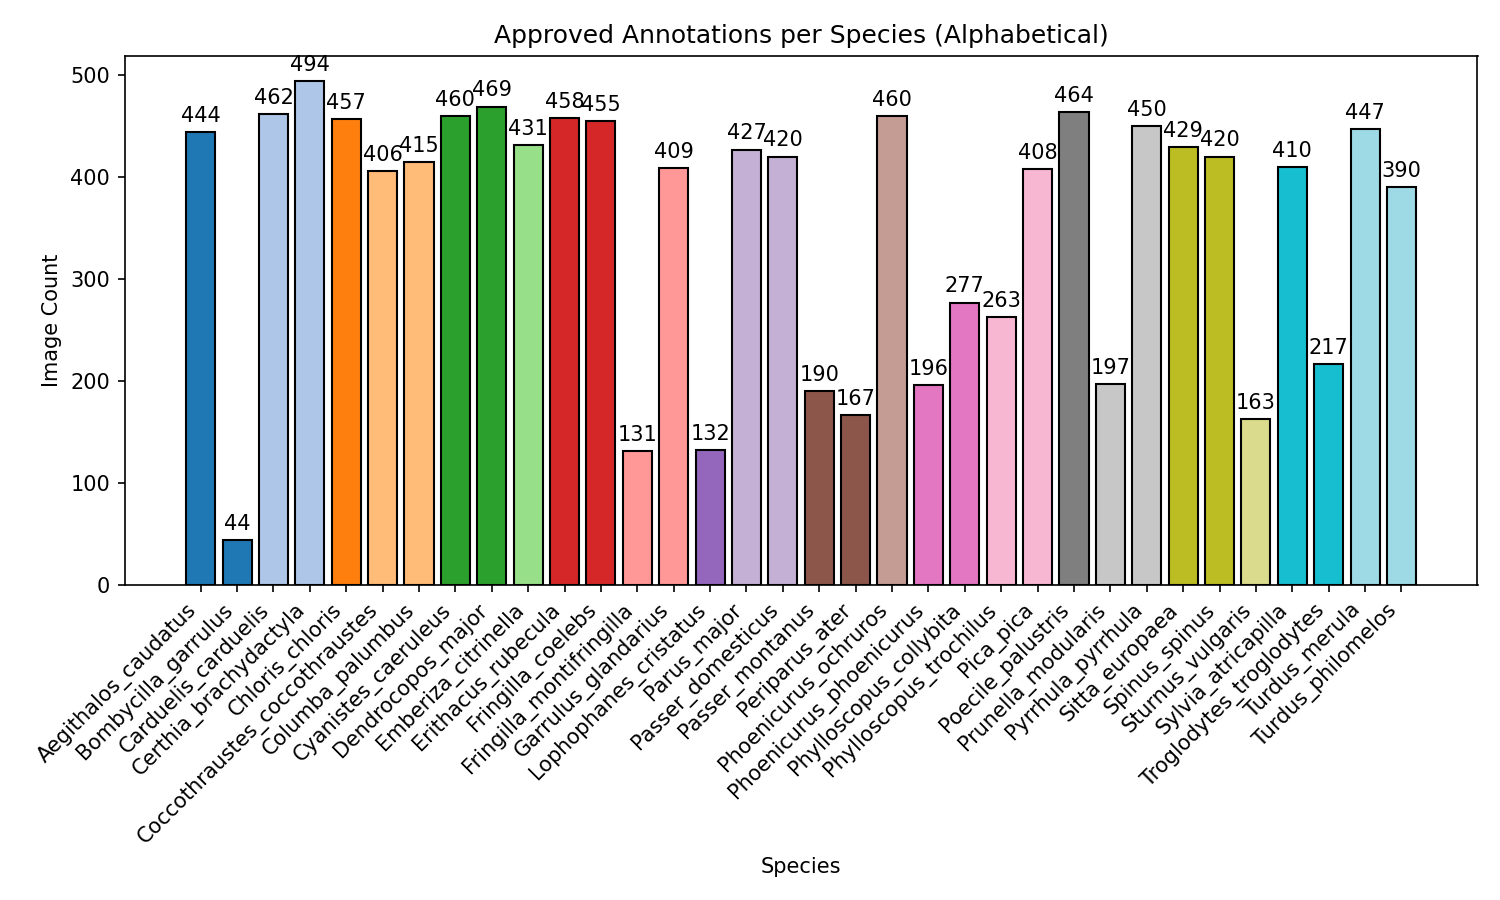
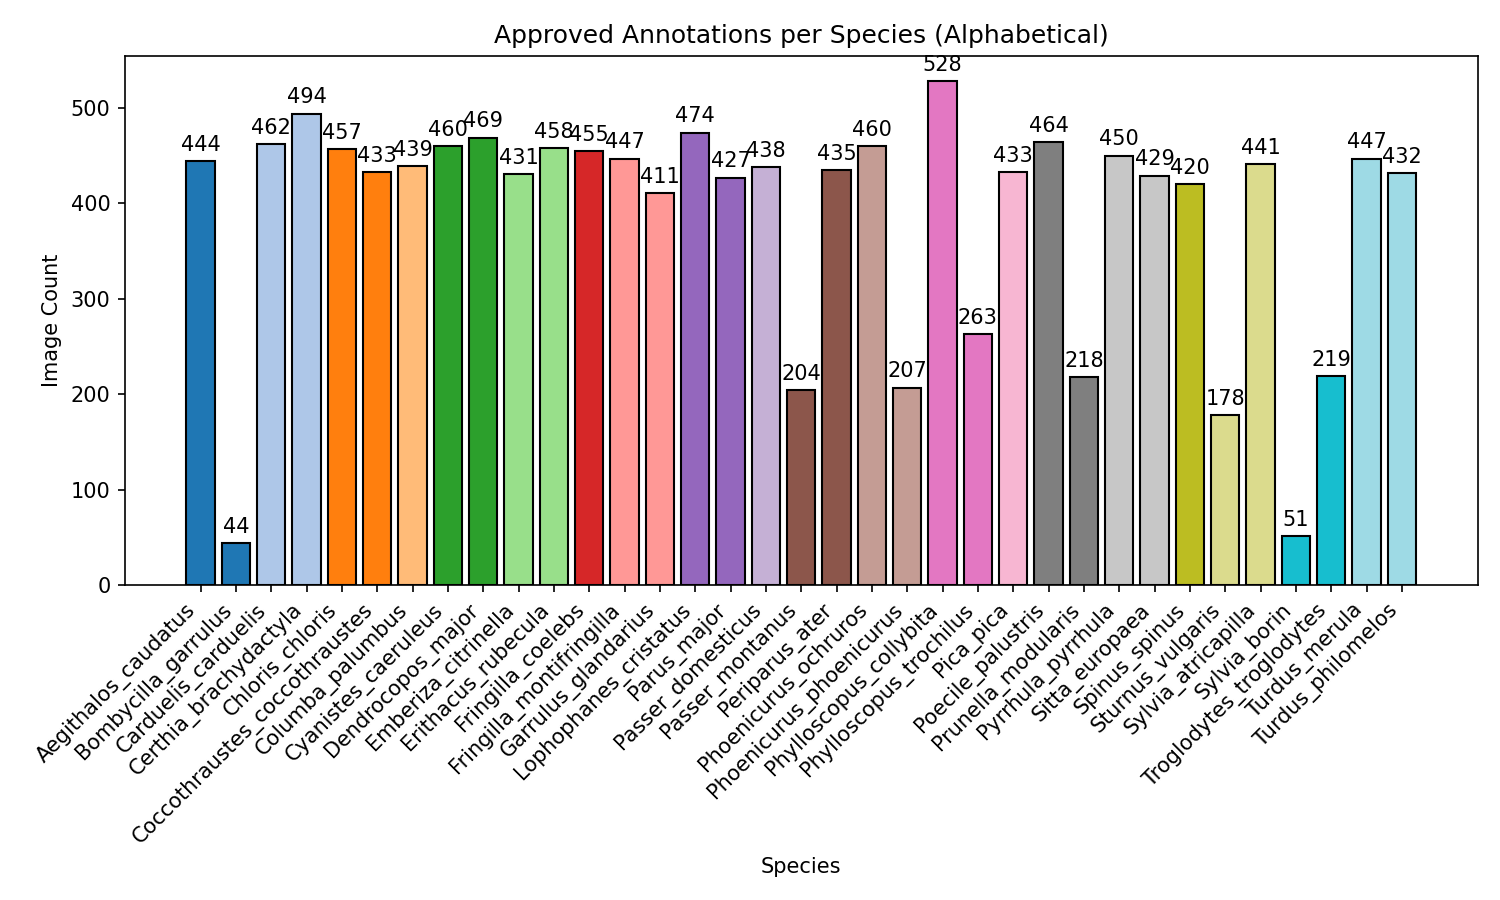
New Annotations.

diff --git a/README.md b/README.md
@@ -1,6 +1,6 @@
 # WatchMyBirds-Data
 
-This dataset (12062 annotated images) is designed to train the models behind [**WatchMyBirds**](https://github.com/arminfabritzek/WatchMyBirds) – a lightweight, customizable object detection system tailored for real-time monitoring. Built with PyTorch and TensorFlow, WatchMyBirds supports live video streaming, automatic frame capture based on detection criteria, and Telegram integration for timely notifications. Images in the dataset may contain different species, and all annotations are provided in COCO format.
+This dataset (13522 annotated images) is designed to train the models behind [**WatchMyBirds**](https://github.com/arminfabritzek/WatchMyBirds) – a lightweight, customizable object detection system tailored for real-time monitoring. Built with PyTorch and TensorFlow, WatchMyBirds supports live video streaming, automatic frame capture based on detection criteria, and Telegram integration for timely notifications. Images in the dataset may contain different species, and all annotations are provided in COCO format.
 
 Built for **hobbyists, researchers, and wildlife enthusiasts**, WatchMyBirds makes real-time monitoring **accessible and powerful**. 🚀  
 
@@ -24,11 +24,11 @@ Built for **hobbyists, researchers, and wildlife enthusiasts**, WatchMyBirds mak
 
 ## Dataset CSV Preview (First 4 Lines)
 
-| original_url                                                                  | attribution                                              | image_hash                       | approved_annotation                                                                                                                                                                                                                                                                                                                                                                                                                                                                                                                                                                                                                                                                                                                                              |
-|:------------------------------------------------------------------------------|:---------------------------------------------------------|:---------------------------------|:-----------------------------------------------------------------------------------------------------------------------------------------------------------------------------------------------------------------------------------------------------------------------------------------------------------------------------------------------------------------------------------------------------------------------------------------------------------------------------------------------------------------------------------------------------------------------------------------------------------------------------------------------------------------------------------------------------------------------------------------------------------------|
-| https://inaturalist-open-data.s3.amazonaws.com/photos/59968459/original.jpeg  | (c) Alexis Tinker-Tsavalas, some rights reserved (CC BY) | 080930a2018c82efd4689217cba72121 | {"annotations": [{"id": 153137263001, "image_id": 153137263, "category_id": 17, "bbox": [790.0, 431.0, 716.0, 984.0], "area": 704544.0, "iscrowd": 0}], "images": [{"id": 153137263, "file_name": "Passer_domesticus_37783422_59968459.jpeg", "width": 2048, "height": 1536}], "categories": [{"id": 17, "name": "Passer_domesticus"}]}                                                                                                                                                                                                                                                                                                                                                                                                                          |
-| https://inaturalist-open-data.s3.amazonaws.com/photos/252417443/original.jpeg | (c) Niko Ioannidis, some rights reserved (CC BY)         | c03ff24bca4c21be1c6f5a6dd7b45514 | {"annotations": [{"id": 153140228001, "image_id": 153140228, "category_id": 10, "bbox": [219.0, 199.99999999999994, 170.0, 243.99999999999997], "area": 41479.99999999999, "iscrowd": 0}, {"id": 153140228002, "image_id": 153140228, "category_id": 10, "bbox": [438.99999999999994, 760.0, 111.00000000000001, 241.99999999999997], "area": 26862.0, "iscrowd": 0}, {"id": 153140228003, "image_id": 153140228, "category_id": 10, "bbox": [593.182732606874, 1.3099391217923633e-14, 147.20033528918685, 159.53072625698312], "area": 23482.9763939554, "iscrowd": 0}], "images": [{"id": 153140228, "file_name": "Emberiza_citrinella_146772219_252417443.jpeg", "width": 1600, "height": 1200}], "categories": [{"id": 10, "name": "Emberiza_citrinella"}]} |
-| https://inaturalist-open-data.s3.amazonaws.com/photos/411732775/original.jpeg | (c) Alexis Tinker-Tsavalas, some rights reserved (CC BY) | 85fc87bf0b2f4f91e8ee82cfa858e289 | {"annotations": [{"id": 161793426001, "image_id": 161793426, "category_id": 25, "bbox": [1005.0, 294.99999999999994, 570.0, 1215.0], "area": 692550.0, "iscrowd": 0}], "images": [{"id": 161793426, "file_name": "Poecile_palustris_231793092_411732775.jpeg", "width": 2048, "height": 1536}], "categories": [{"id": 25, "name": "Poecile_palustris"}]}                                                                                                                                                                                                                                                                                                                                                                                                         |
+| original_url                                                                  | attribution                                              | image_hash                       | approved_annotation                                                                                                                                                                                                                                                                                                                                           |
+|:------------------------------------------------------------------------------|:---------------------------------------------------------|:---------------------------------|:--------------------------------------------------------------------------------------------------------------------------------------------------------------------------------------------------------------------------------------------------------------------------------------------------------------------------------------------------------------|
+| https://inaturalist-open-data.s3.amazonaws.com/photos/32135676/original.jpeg  | (c) Alexis Tinker-Tsavalas, some rights reserved (CC BY) | be517d4f3c15ad510b41bcc9fa56ef1a | {"annotations": [{"id": 161795769001, "image_id": 161795769, "category_id": 6, "bbox": [825.0, 738.0, 286.0, 467.0], "area": 133562.0, "iscrowd": 0}], "images": [{"id": 161795769, "file_name": "Coccothraustes_coccothraustes_20833913_32135676.jpeg", "width": 2048, "height": 1536}], "categories": [{"id": 6, "name": "Coccothraustes_coccothraustes"}]} |
+| https://inaturalist-open-data.s3.amazonaws.com/photos/59887365/original.jpeg  | (c) Alexis Tinker-Tsavalas, some rights reserved (CC BY) | 8d3392d00f11d775cc5c77997e69d1f4 | {"annotations": [{"id": 153137265001, "image_id": 153137265, "category_id": 17, "bbox": [618.0, 419.0, 225.0, 152.0], "area": 34200.0, "iscrowd": 0}], "images": [{"id": 153137265, "file_name": "Passer_domesticus_37738585_59887365.jpeg", "width": 1236, "height": 927}], "categories": [{"id": 17, "name": "Passer_domesticus"}]}                         |
+| https://inaturalist-open-data.s3.amazonaws.com/photos/351086574/original.jpeg | (c) Valentin Conrad, some rights reserved (CC BY)        | ddc9c1a4344d408240294b325239d767 | {"annotations": [{"id": 153139208001, "image_id": 153139208, "category_id": 14, "bbox": [1136.0, 525.0, 249.0, 273.0], "area": 67977.0, "iscrowd": 0}], "images": [{"id": 153139208, "file_name": "Garrulus_glandarius_199116353_351086574.jpeg", "width": 2048, "height": 1536}], "categories": [{"id": 14, "name": "Garrulus_glandarius"}]}                 |
 
 ---
 
